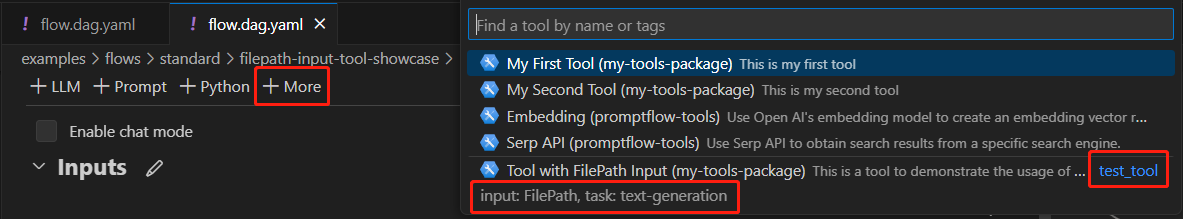
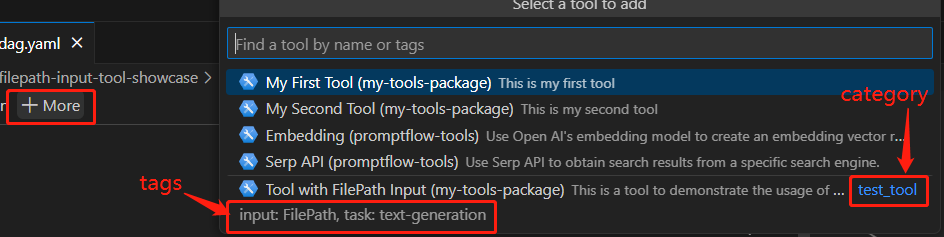
update image
update

diff --git a/docs/how-to-guides/develop-a-tool/add-category-and-tags-for-tool.md b/docs/how-to-guides/develop-a-tool/add-category-and-tags-for-tool.md
@@ -1,9 +1,11 @@
 # Add Category and Tags for Tool
-At times, users require their tools to be readily accessible. To facilitate this, we've implemented the `category` and `tags` features.  
-| name     | type | isrequired | description |
+At times, users require their tools to be readily accessible. To facilitate this, we've implemented the `category` and `tags` features. The category helps to classify tools into distinct category folders, whereas the tags allow users to locate tools with corresponding tags.  
+
+| name     | type | is_required | description |
 | ---------| -----| ---------- | ----------- |
 | category | str  | false      | A string that groups tools with similar characteristics. |
 | tags     | dict | false      | A dictionary of key-value pairs to describe the different perspectives of the tool. |
+> [!Note] If a tool isn't assigned a category, it will be displayed in the root folder. Similarly, if no tags are assigned, the tags field will remain empty.
 
 ## Prerequisites
 - Please ensure that your [Prompt flow for VS Code](https://marketplace.visualstudio.com/items?itemName=prompt-flow.prompt-flow) is updated to version 1.1.0 or a more recent version.
@@ -32,11 +34,12 @@ my_tool_package.tools.tool_with_file_path_input.my_tool:
 ```
 
 ## Tool with category and tags shown in VS Code extension
-### Tool with category and tags shown in tools tree
-Follow the [steps](create-and-use-tool-package.md#use-your-tool-from-vscode-extension) to use your tool via the VS Code extension. Your tool will be displayed along with its category and tags in tool tree, the category will be shown as folder name:  
-![category_and_tags_in_extension](../../media/how-to-guides/develop-a-tool/category_and_tags_in_extension.png)
+Follow the [steps](create-and-use-tool-package.md#use-your-tool-from-vscode-extension) to use your tool via the VS Code extension. 
+- User experience in tool tree  
+Your tool will be displayed along with its category and tags in tool tree like this:  
+![category_and_tags_in_tool_tree](../../media/how-to-guides/develop-a-tool/category_and_tags_in_tool_tree.png)  
 
-### Tool with category and tags shown in tool list
+- User experience in tool list  
 By clicking `More` in the visual editor, you can view your tools along with their category and tags:  
 ![category_and_tags_in_tool_list](../../media/how-to-guides/develop-a-tool/category_and_tags_in_tool_list.png)  
 Furthermore, you have the option to search or filter tools based on tags:  
